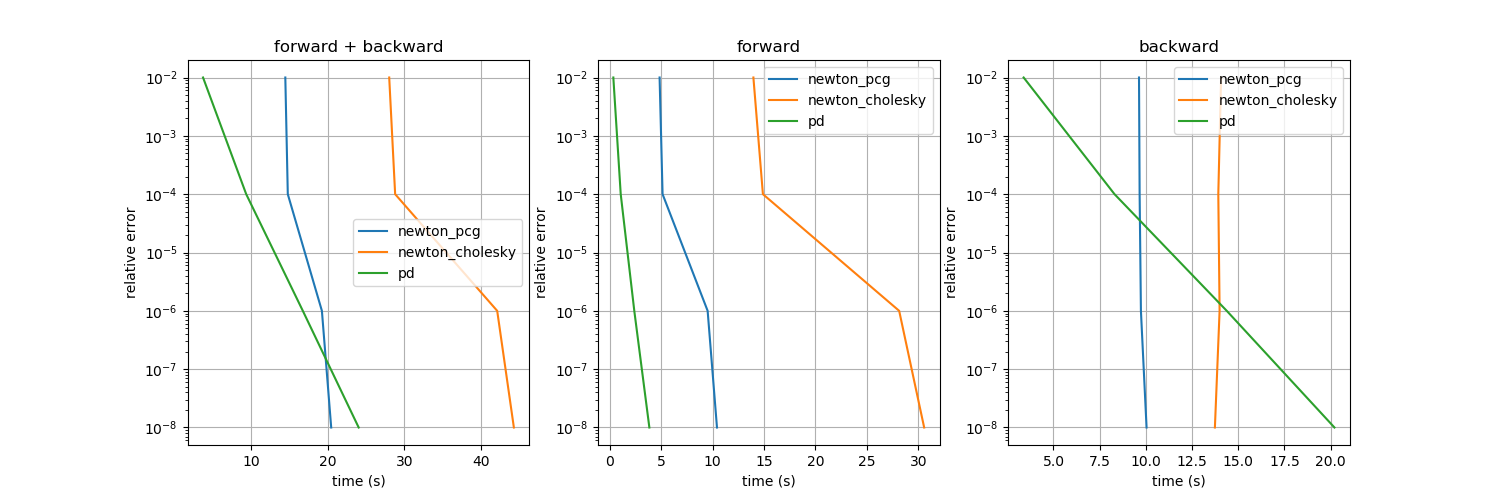
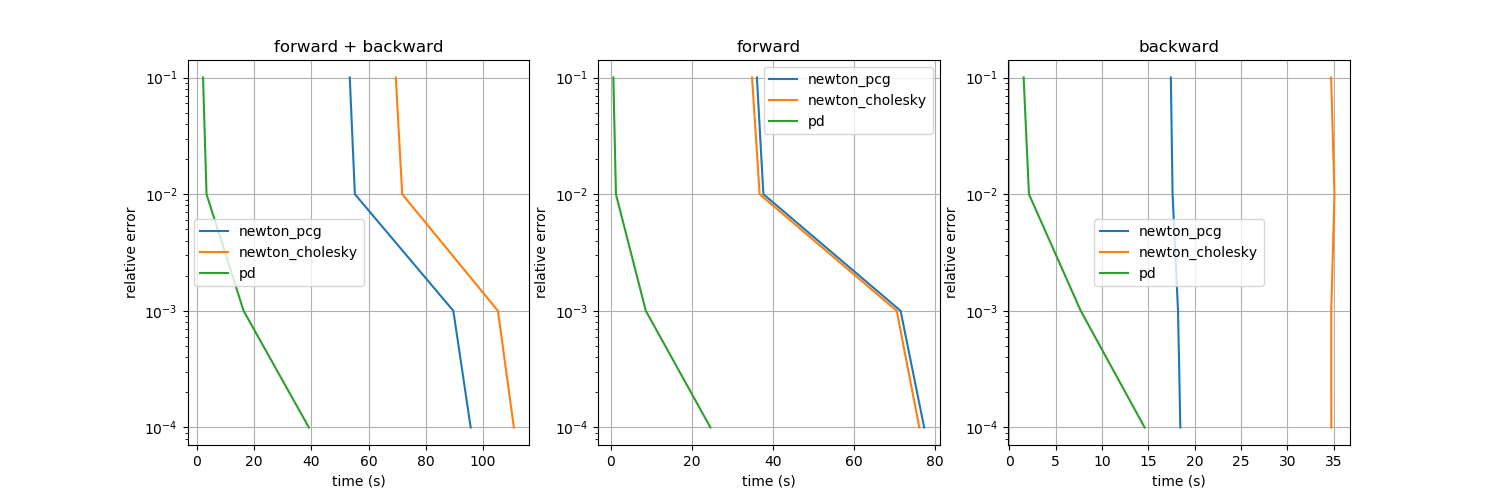
Significant code speed-up for BackwardPD.

diff --git a/cpp/core/src/fem/deformable_projective_dynamics.cpp b/cpp/core/src/fem/deformable_projective_dynamics.cpp
@@ -236,25 +236,102 @@ const VectorXr Deformable<vertex_dim, element_dim>::ProjectiveDynamicsLocalStepT
     std::array<VectorXr, element_dim> pd_rhss;
     for (int i = 0; i < element_dim; ++i) pd_rhss[i] = VectorXr::Zero(dofs_);
     // Project PdElementEnergy.
-    for (const auto& energy : pd_element_energies_) {
-        const real w = energy->stiffness() * cell_volume_ / sample_num;
-        #pragma omp parallel for
-        for (int i = 0; i < element_num; ++i) {
-            const Eigen::Matrix<int, element_dim, 1> vi = mesh_.element(i);
-            const auto deformed = ScatterToElementFlattened(q_cur, i);
-            const auto ddeformed = ScatterToElementFlattened(dq_cur, i);
-            for (int j = 0; j < sample_num; ++j) {
-                const Eigen::Matrix<real, vertex_dim * vertex_dim, 1> F_flattened = pd_A_[j] * deformed;
-                const Eigen::Matrix<real, vertex_dim, vertex_dim> F = Eigen::Map<const Eigen::Matrix<real, vertex_dim, vertex_dim>>(
-                    F_flattened.data(), vertex_dim, vertex_dim
-                );
+    #pragma omp parallel for
+    for (int i = 0; i < element_num; ++i) {
+        const Eigen::Matrix<int, element_dim, 1> vi = mesh_.element(i);
+        const auto deformed = ScatterToElementFlattened(q_cur, i);
+        const auto ddeformed = ScatterToElementFlattened(dq_cur, i);
+        Eigen::Matrix<real, vertex_dim * element_dim, vertex_dim * element_dim> wAtdBptAS; wAtdBptAS.setZero();
+        for (int j = 0; j < sample_num; ++j) {    
+            const Eigen::Matrix<real, vertex_dim * vertex_dim, 1> F_flattened = pd_A_[j] * deformed;
+            const Eigen::Matrix<real, vertex_dim, vertex_dim> F = Eigen::Map<const Eigen::Matrix<real, vertex_dim, vertex_dim>>(
+                F_flattened.data(), vertex_dim, vertex_dim
+            );
+            Eigen::Matrix<real, vertex_dim * vertex_dim, vertex_dim * vertex_dim> wdBpT; wdBpT.setZero();
+            for (const auto& energy : pd_element_energies_) {
+                const real w = energy->stiffness() * cell_volume_ / sample_num;
                 const Eigen::Matrix<real, vertex_dim * vertex_dim, vertex_dim * vertex_dim> dBp = energy->ProjectToManifoldDifferential(F);
-                const Eigen::Matrix<real, vertex_dim * element_dim, 1> AtdBptASx = pd_At_[j] * dBp.transpose() * pd_A_[j] * ddeformed;
-                for (int k = 0; k < element_dim; ++k)
-                    for (int d = 0; d < vertex_dim; ++d)
-                        pd_rhss[k](vertex_dim * vi[k] + d) += w * AtdBptASx(k * vertex_dim + d);
+                wdBpT += w * dBp.transpose();
             }
+            wAtdBptAS += pd_At_[j] * wdBpT * pd_A_[j];
         }
+        const Eigen::Matrix<real, vertex_dim * element_dim, 1> wAtdBptASx = wAtdBptAS * ddeformed;
+        for (int k = 0; k < element_dim; ++k)
+            for (int d = 0; d < vertex_dim; ++d)
+                pd_rhss[k](vertex_dim * vi[k] + d) += wAtdBptASx(k * vertex_dim + d);
+    }
+    VectorXr pd_rhs = VectorXr::Zero(dofs_);
+    for (int i = 0; i < element_dim; ++i) pd_rhs += pd_rhss[i];
+
+    // Project PdVertexEnergy.
+    // w * S' * A' * (d(BP)/dF)^T * A * (Sx).
+    for (const auto& pair : pd_vertex_energies_) {
+        const auto& energy = pair.first;
+        const real wi = energy->stiffness();
+        for (const int idx : pair.second) {
+            const Eigen::Matrix<real, vertex_dim, 1> dBptAd =
+                energy->ProjectToManifoldDifferential(q_cur.segment(vertex_dim * idx, vertex_dim)).transpose()
+                * dq_cur.segment(vertex_dim * idx, vertex_dim);
+            pd_rhs.segment(vertex_dim * idx, vertex_dim) += wi * dBptAd;
+        }
+    }
+
+    return pd_rhs;
+}
+
+template<int vertex_dim, int element_dim>
+void Deformable<vertex_dim, element_dim>::SetupProjectiveDynamicsLocalStepTransposeDifferential(const VectorXr& q_cur,
+    std::vector<Eigen::Matrix<real, vertex_dim * element_dim, vertex_dim * element_dim>>& pd_backward_local_matrices) const {
+    CheckError(!material_, "PD does not support material models.");
+    for (const auto& pair : dirichlet_) CheckError(q_cur(pair.first) == pair.second, "Boundary conditions violated.");
+
+    const int sample_num = element_dim;
+    // Implements w * S' * A' * (d(BP)/dF)^T * A * (Sx).
+
+    const int element_num = mesh_.NumOfElements();
+    // Project PdElementEnergy.
+    pd_backward_local_matrices.resize(element_num);
+    #pragma omp parallel for
+    for (int i = 0; i < element_num; ++i) {
+        const auto deformed = ScatterToElementFlattened(q_cur, i);
+        Eigen::Matrix<real, vertex_dim * element_dim, vertex_dim * element_dim> wAtdBptAS; wAtdBptAS.setZero();
+        for (int j = 0; j < sample_num; ++j) {    
+            const Eigen::Matrix<real, vertex_dim * vertex_dim, 1> F_flattened = pd_A_[j] * deformed;
+            const Eigen::Matrix<real, vertex_dim, vertex_dim> F = Eigen::Map<const Eigen::Matrix<real, vertex_dim, vertex_dim>>(
+                F_flattened.data(), vertex_dim, vertex_dim
+            );
+            Eigen::Matrix<real, vertex_dim * vertex_dim, vertex_dim * vertex_dim> wdBpT; wdBpT.setZero();
+            for (const auto& energy : pd_element_energies_) {
+                const real w = energy->stiffness() * cell_volume_ / sample_num;
+                const Eigen::Matrix<real, vertex_dim * vertex_dim, vertex_dim * vertex_dim> dBp = energy->ProjectToManifoldDifferential(F);
+                wdBpT += w * dBp.transpose();
+            }
+            wAtdBptAS += pd_At_[j] * wdBpT * pd_A_[j];
+        }
+        pd_backward_local_matrices[i] = wAtdBptAS;
+    }
+}
+
+template<int vertex_dim, int element_dim>
+const VectorXr Deformable<vertex_dim, element_dim>::ApplyProjectiveDynamicsLocalStepTransposeDifferential(const VectorXr& q_cur,
+    const std::vector<Eigen::Matrix<real, vertex_dim * element_dim, vertex_dim * element_dim>>& pd_backward_local_matrices,
+    const VectorXr& dq_cur) const {
+    CheckError(!material_, "PD does not support material models.");
+    for (const auto& pair : dirichlet_) CheckError(q_cur(pair.first) == pair.second, "Boundary conditions violated.");
+
+    // Implements w * S' * A' * (d(BP)/dF)^T * A * (Sx).
+    const int element_num = mesh_.NumOfElements();
+    std::array<VectorXr, element_dim> pd_rhss;
+    for (int i = 0; i < element_dim; ++i) pd_rhss[i] = VectorXr::Zero(dofs_);
+    // Project PdElementEnergy.
+    #pragma omp parallel for
+    for (int i = 0; i < element_num; ++i) {
+        const auto ddeformed = ScatterToElementFlattened(dq_cur, i);
+        const Eigen::Matrix<real, vertex_dim * element_dim, 1> wAtdBptASx = pd_backward_local_matrices[i] * ddeformed;
+        const Eigen::Matrix<int, element_dim, 1> vi = mesh_.element(i);
+        for (int k = 0; k < element_dim; ++k)
+            for (int d = 0; d < vertex_dim; ++d)
+                pd_rhss[k](vertex_dim * vi(k) + d) += wAtdBptASx(k * vertex_dim + d);
     }
     VectorXr pd_rhs = VectorXr::Zero(dofs_);
     for (int i = 0; i < element_dim; ++i) pd_rhs += pd_rhss[i];
@@ -310,7 +387,7 @@ void Deformable<vertex_dim, element_dim>::BackwardProjectiveDynamics(const Vecto
     // f = w_i S'A'(Bp(q) - ASq_0 - ASq_i).
     // q_mid + h2m wi * S'A'ASq_mid - h2m * wi * S'A'Bp = q + hv + h2m f_ext + h2m f_state(q, v) =: rhs.
     // (I + h2mw * S'A'AS) * J - h2mw * S'A' d(BP)/dq_mid * J = drhs/d*.
-    // J = (I + h2mw * S'A'AS - h2mw * S'A' d(BP)/dq_next)^(-1) * drhs/d* 
+    // J = (I + h2mw * S'A'AS - h2mw * S'A' d(BP)/dq_next)^(-1) * drhs/d*.
     // (I + h2mw * S'A'AS - h2mw * S'A' d(BP)/dq_next)^T * x = dl_dq_mid.
     // So the crux is to solve x from the equation below:
     // (I + h2m * S'A'AS)x = dl_dq_mid + h2mw * d(BP)/dq_mid^T * AS x.
@@ -337,11 +414,14 @@ void Deformable<vertex_dim, element_dim>::BackwardProjectiveDynamics(const Vecto
         selected(pair.first) = 0;
     }
     if (verbose_level > 0) PrintInfo("Projective dynamics");
+    // Setup the right-hand side.
+    std::vector<Eigen::Matrix<real, vertex_dim * element_dim, vertex_dim * element_dim>> pd_backward_local_matrices;
+    SetupProjectiveDynamicsLocalStepTransposeDifferential(q_next, pd_backward_local_matrices);
     for (int i = 0; i < max_pd_iter; ++i) {
         if (verbose_level > 0) PrintInfo("Iteration " + std::to_string(i));
         if (verbose_level > 1) Tic();
         // Local step.
-        VectorXr pd_rhs = dl_dq_mid + h2m * ProjectiveDynamicsLocalStepTransposeDifferential(q_next, adjoint);
+        VectorXr pd_rhs = dl_dq_mid + h2m * ApplyProjectiveDynamicsLocalStepTransposeDifferential(q_next, pd_backward_local_matrices, adjoint);
         for (const auto& pair : dirichlet_) pd_rhs(pair.first) = 0;
         if (verbose_level > 1) Toc("Local step");
 

diff --git a/python/example/benchmark_3d.py b/python/example/benchmark_3d.py
@@ -12,7 +12,7 @@ from py_diff_pd.core.py_diff_pd_core import Deformable3d, Mesh3d, StdRealVector
 from py_diff_pd.common.common import ndarray, create_folder
 from py_diff_pd.common.common import print_info, PrettyTabular
 from py_diff_pd.common.mesh import generate_hex_mesh
-from py_diff_pd.common.grad_check import check_gradients
+from py_diff_pd.common.display import render_hex_mesh, export_gif
 
 if __name__ == '__main__':
     # Uncomment the following line to try random seeds.
@@ -22,21 +22,23 @@ if __name__ == '__main__':
     np.random.seed(seed)
 
     # Hyperparameters.
-    youngs_modulus = 1e5
+    youngs_modulus = 1e6
     poissons_ratio = 0.45
     density = 1e3
-    cell_nums = (8, 8, 16)
+    cell_nums = (32, 8, 8)
     origin = np.random.normal(size=3)
     node_nums = (cell_nums[0] + 1, cell_nums[1] + 1, cell_nums[2] + 1)
-    dx = 0.1
+    dx = 0.01
     methods = ('newton_pcg', 'newton_cholesky', 'pd')
-    opts = ({ 'max_newton_iter': 100, 'max_ls_iter': 10, 'abs_tol': 1e-7, 'rel_tol': 1e-7, 'verbose': 0 },
-        { 'max_newton_iter': 100, 'max_ls_iter': 10, 'abs_tol': 1e-7, 'rel_tol': 1e-7, 'verbose': 0 },
-        { 'max_pd_iter': 100, 'abs_tol': 1e-7, 'rel_tol': 1e-7, 'verbose': 0 })
+    opts = ({ 'max_newton_iter': 500, 'max_ls_iter': 10, 'abs_tol': 1e-9, 'rel_tol': 1e-4, 'verbose': 0 },
+        { 'max_newton_iter': 500, 'max_ls_iter': 10, 'abs_tol': 1e-9, 'rel_tol': 1e-4, 'verbose': 0 },
+        { 'max_pd_iter': 500, 'abs_tol': 1e-9, 'rel_tol': 1e-4, 'verbose': 0 })
 
     # Initialization.
     folder = Path('benchmark_3d')
     create_folder(folder)
+    img_resolution = (400, 400)
+    render_samples = 8
     bin_file_name = folder / 'cuboid.bin'
     voxels = np.ones(cell_nums)
     generate_hex_mesh(voxels, dx, origin, bin_file_name)
@@ -47,29 +49,83 @@ if __name__ == '__main__':
     deformable = Deformable3d()
     deformable.Initialize(str(bin_file_name), density, 'none', youngs_modulus, poissons_ratio)
     # Boundary conditions.
-    for i in range(node_nums[0]):
-        for j in range(node_nums[1]):
-            node_idx = i * node_nums[1] * node_nums[2] + j * node_nums[2]
+    for j in range(node_nums[1]):
+        for k in range(node_nums[2]):
+            node_idx = j * node_nums[2] + k
             vx, vy, vz = mesh.py_vertex(node_idx)
             deformable.SetDirichletBoundaryCondition(3 * node_idx, vx)
             deformable.SetDirichletBoundaryCondition(3 * node_idx + 1, vy)
             deformable.SetDirichletBoundaryCondition(3 * node_idx + 2, vz)
+    # State-based forces.
+    deformable.AddStateForce('gravity', [0, 0, -9.81])
     # Elasticity.
     deformable.AddPdEnergy('corotated', [youngs_modulus / (1 + poissons_ratio),], [])
+    # Collisions.
+    def to_index(i, j, k):
+        return i * node_nums[1] * node_nums[2] + j * node_nums[2] + k
+    collision_indices = [to_index(cell_nums[0], 0, 0), to_index(cell_nums[0], cell_nums[1], 0)]
+    deformable.AddPdEnergy('planar_collision', [5e3, 0.0, 0.0, 1.0, -origin[2] + 2 * dx], collision_indices)
 
+    # Initial state set by rotating the cuboid kinematically.
     dofs = deformable.dofs()
     vertex_num = mesh.NumOfVertices()
     q0 = ndarray(mesh.py_vertices())
+    max_theta = np.pi / 6
+    for i in range(1, node_nums[0]):
+        theta = max_theta * i / (node_nums[0] - 1)
+        c, s = np.cos(theta), np.sin(theta)
+        R = ndarray([[1, 0, 0],
+            [0, c, -s],
+            [0, s, c]])
+        center = ndarray([i * dx, cell_nums[1] / 2 * dx, cell_nums[2] / 2 * dx]) + origin
+        for j in range(node_nums[1]):
+            for k in range(node_nums[2]):
+                idx = i * node_nums[1] * node_nums[2] + j * node_nums[2] + k
+                v = ndarray(mesh.py_vertex(idx))
+                q0[3 * idx:3 * idx + 3] = R @ (v - center) + center
     v0 = np.zeros(dofs)
+    f_ext = np.random.normal(scale=0.1, size=dofs) * density * (dx ** 3)
 
+    # Visualization.
+    dt = 1e-2
+    frame_num = 25
+    def visualize(qvf, method, opt):
+        create_folder(folder / method)
+        q_init = ndarray(qvf[:dofs])
+        v_init = ndarray(qvf[dofs:2 * dofs])
+        f_ext = ndarray(qvf[2 * dofs:])
+        q = [q_init,]
+        v = [v_init,]
+        for i in range(frame_num):
+            q_cur = q[-1]
+            v_cur = v[-1]
+            deformable.PySaveToMeshFile(q_cur, str(folder / method / '{:04d}.bin'.format(i)))
+            mesh = Mesh3d()
+            mesh.Initialize(str(folder / method / '{:04d}.bin'.format(i)))
+            render_hex_mesh(mesh, file_name=folder / method / '{:04d}.png'.format(i), resolution=img_resolution,
+                sample=render_samples, transforms=[
+                    ('t', -origin),
+                    ('t', (0, 0, 2 * dx)),
+                    ('t', (0, cell_nums[0] / 2 * dx, 0)),
+                    ('s', 1.25 / ((cell_nums[0] + 2) * dx)),
+                ])
+            q_next_array = StdRealVector(dofs)
+            v_next_array = StdRealVector(dofs)
+            deformable.PyForward(method, q_cur, v_cur, f_ext, dt, opt, q_next_array, v_next_array)
+            q_next = ndarray(q_next_array)
+            v_next = ndarray(v_next_array)
+            q.append(q_next)
+            v.append(v_next)
+
+        export_gif(folder / method, folder/ '{}.gif'.format(method), 5)
+        os.system('eog {}'.format(folder / '{}.gif'.format(method)))
+
+    for method, opt in zip(methods, opts):
+        visualize(np.concatenate([q0, v0, f_ext]), method, opt)
+
+    # Benchmark time.
     q_next_weight = np.random.normal(size=dofs)
     v_next_weight = np.random.normal(size=dofs)
-    dt = 3e-2   # Corresponds to 30 fps.
-    frame_num = 30  # 1 second.
-    f_ext = np.zeros((vertex_num, 3))
-    f_ext[:, 0] = np.random.uniform(low=0, high=10, size=vertex_num) * density * (dx ** 3) # Shifting to its right.
-    f_ext = ndarray(f_ext).ravel()
-
     def loss_and_grad(qvf, method, opt, compute_grad):
         q_init = ndarray(qvf[:dofs])
         v_init = ndarray(qvf[dofs:2 * dofs])
@@ -114,7 +170,7 @@ if __name__ == '__main__':
     print('Reporting time cost. DoFs: {:d}, frames: {:d}, dt: {:3.3e}'.format(
         3 * node_nums[0] * node_nums[1] * node_nums[2], frame_num, dt
     ))
-    rel_tols = [1e-2, 1e-4, 1e-6, 1e-8]
+    rel_tols = [1e-1, 1e-2, 1e-3, 1e-4]
     forward_backward_times = {}
     forward_times = {}
     backward_times = {}
@@ -128,7 +184,9 @@ if __name__ == '__main__':
         tabular = PrettyTabular({
             'method': '{:^20s}',
             'forward and backward (s)': '{:3.3f}',
-            'forward only (s)': '{:3.3f}'
+            'forward only (s)': '{:3.3f}',
+            'loss': '{:3.3f}',
+            '|grad|': '{:3.3f}'
         })
         print_info(tabular.head_string())
 
@@ -136,11 +194,17 @@ if __name__ == '__main__':
         for method, opt in zip(methods, opts):
             opt['rel_tol'] = rel_tol
             t0 = time.time()
-            loss_and_grad(x0, method, opt, True)
+            loss, grad = loss_and_grad(x0, method, opt, True)
             t1 = time.time()
             loss_and_grad(x0, method, opt, False)
             t2 = time.time()
-            print(tabular.row_string({ 'method': method, 'forward and backward (s)': t1 - t0, 'forward only (s)': t2 - t1 }))
+            print(tabular.row_string({
+                'method': method,
+                'forward and backward (s)': t1 - t0,
+                'forward only (s)': t2 - t1,
+                'loss': loss,
+                '|grad|': np.linalg.norm(grad)
+            }))
             forward_backward_times[method].append(t1 - t0)
             forward_times[method].append(t2 - t1)
             backward_times[method].append((t1 - t0) - (t2 - t1))

diff --git a/cpp/core/include/fem/deformable.h b/cpp/core/include/fem/deformable.h
@@ -162,6 +162,12 @@ private:
     void SetupProjectiveDynamicsSolver(const real dt) const;
     const VectorXr ProjectiveDynamicsLocalStep(const VectorXr& q_cur) const;
     const VectorXr ProjectiveDynamicsLocalStepTransposeDifferential(const VectorXr& q_cur, const VectorXr& dq_cur) const;
+
+    void SetupProjectiveDynamicsLocalStepTransposeDifferential(const VectorXr& q_cur,
+        std::vector<Eigen::Matrix<real, vertex_dim * element_dim, vertex_dim * element_dim>>& pd_backward_local_matrices) const;
+    const VectorXr ApplyProjectiveDynamicsLocalStepTransposeDifferential(const VectorXr& q_cur,
+        const std::vector<Eigen::Matrix<real, vertex_dim * element_dim, vertex_dim * element_dim>>& pd_backward_local_matrices,
+        const VectorXr& dq_cur) const;
     const VectorXr PdLhsMatrixOp(const VectorXr& q) const;
     const VectorXr PdLhsSolve(const VectorXr& rhs) const;
 
